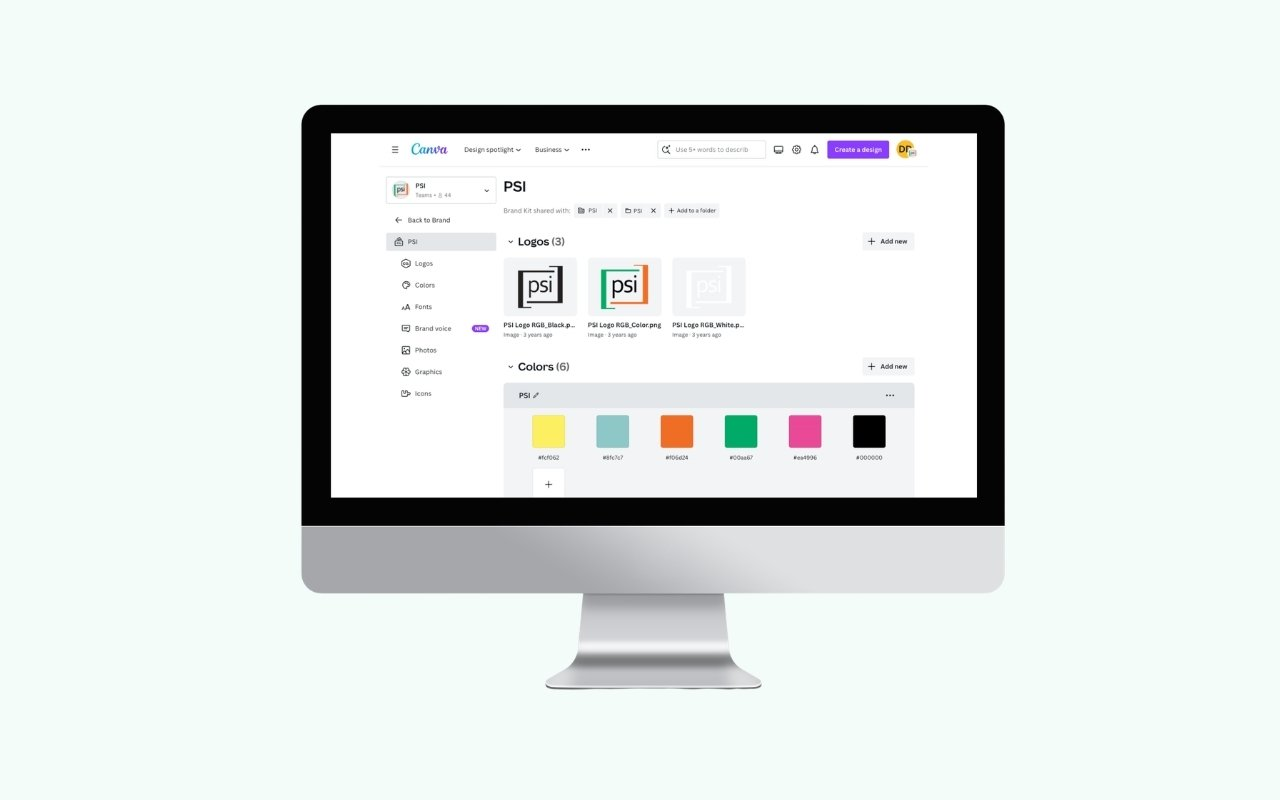
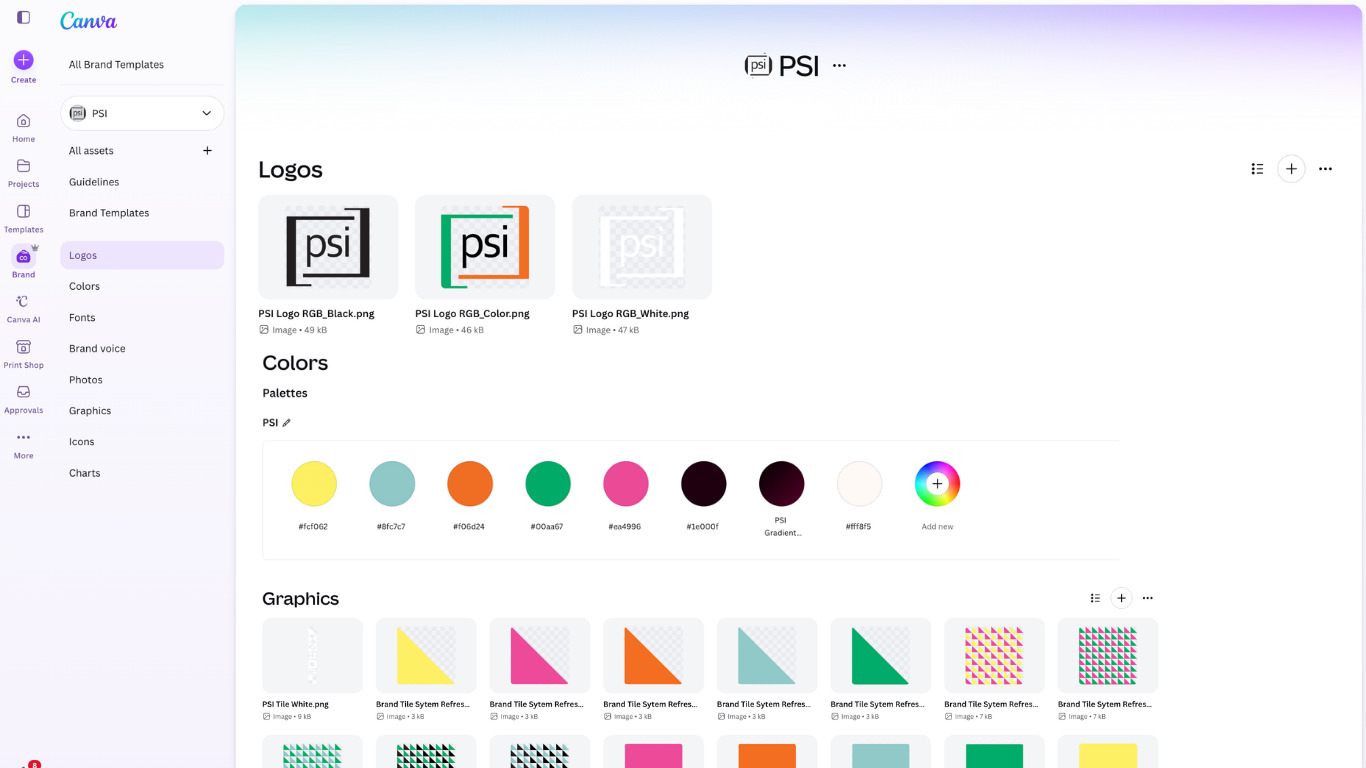
Replace brand kit image with the PSI Canva brand kit
Claude-Session: https://claude.ai/code/session_015P9rPjXUedfrFCyjcAfiyw

diff --git a/work/brand-system.html b/work/brand-system.html
@@ -62,7 +62,7 @@
   <p>Every brand in the network has its own kit: logos, colors, typefaces, photography and graphic elements. Logos, color values and typefaces are locked, because those are what break a brand when they drift. Layout, imagery and message stay open, so a campaign in Kenya and one in Cambodia can each feel local.</p>
 
   <figure class="cs-fig full reveal">
-    <img src="../images/brand-system-kit.jpg" width="1280" height="800" alt="Inside a brand kit: locked logo variants, color values and typefaces">
+    <img src="../images/brand-system-kit.jpg" width="1366" height="768" alt="The PSI brand kit in Canva: locked logo files, the PSI color palette and the brand tile graphics">
     <figcaption>What's locked in every kit: logos, color values and typefaces.</figcaption>
   </figure>
 
